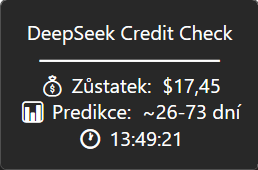
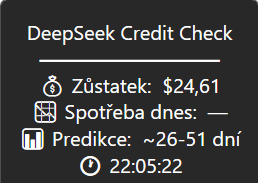
Úprava velikosti obrázků v README a přidání nových screenshotů pro statistiky.

diff --git a/README.md b/README.md
@@ -169,7 +169,11 @@ Requires .NET 8 SDK and Windows (DPAPI dependency).
 
 <p align="center">
   <img src="screenshots/tray.png" alt="Tray icon" width="200" />
-  <img src="screenshots/popup.png" alt="Notification toast" width="380" />
+  <img src="screenshots/popup.png" alt="Notification toast" width="200" />
   <br/>
-  <img src="screenshots/dashboard.png" alt="Dashboard" width="800" />
+  <img src="screenshots/dashboard.png" alt="Dashboard" width="400" />
+  <img src="screenshots/stats_01.png" alt="Dashboard" width="400" />
+  <img src="screenshots/stats_02.png" alt="Dashboard" width="400" />
+  <img src="screenshots/stats_03.png" alt="Dashboard" width="400" />
+  <img src="screenshots/stats_04.png" alt="Dashboard" width="400" />
 </p>